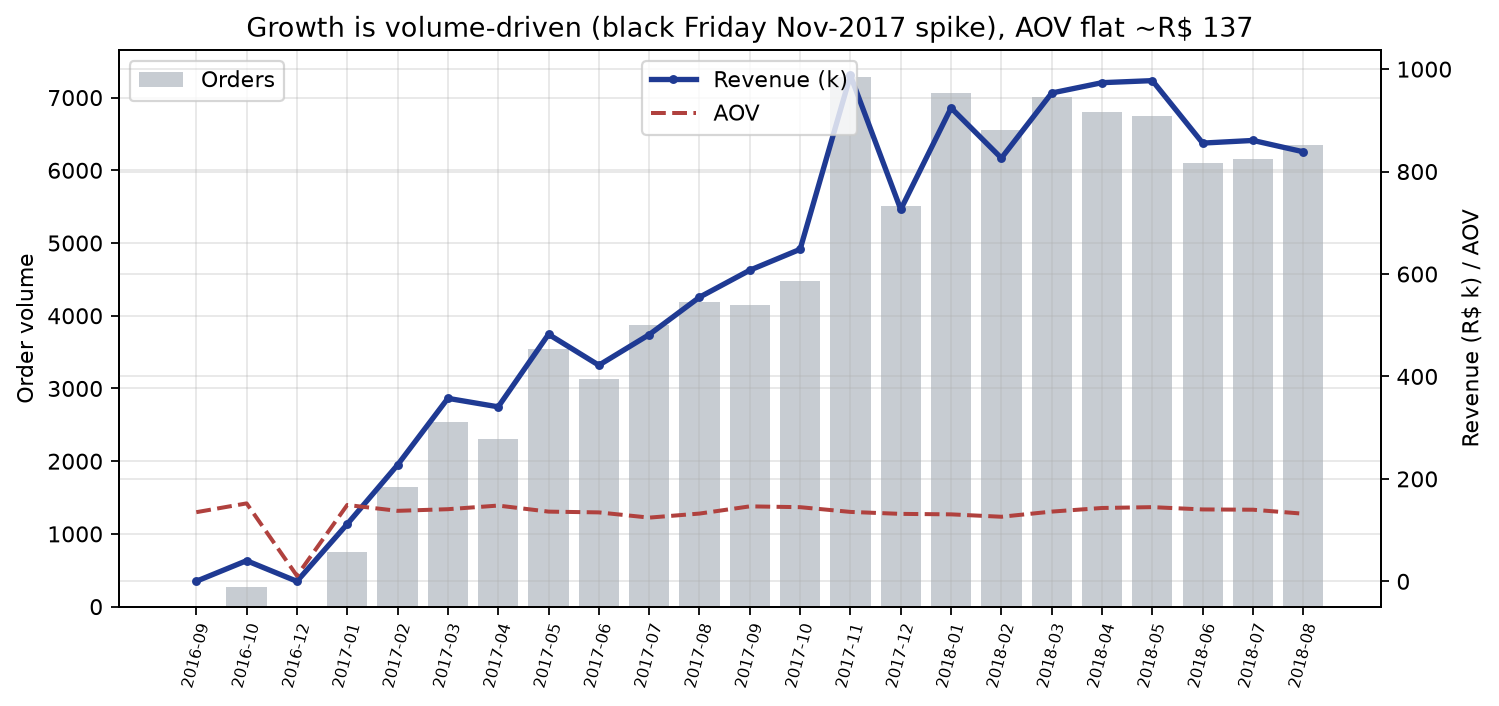
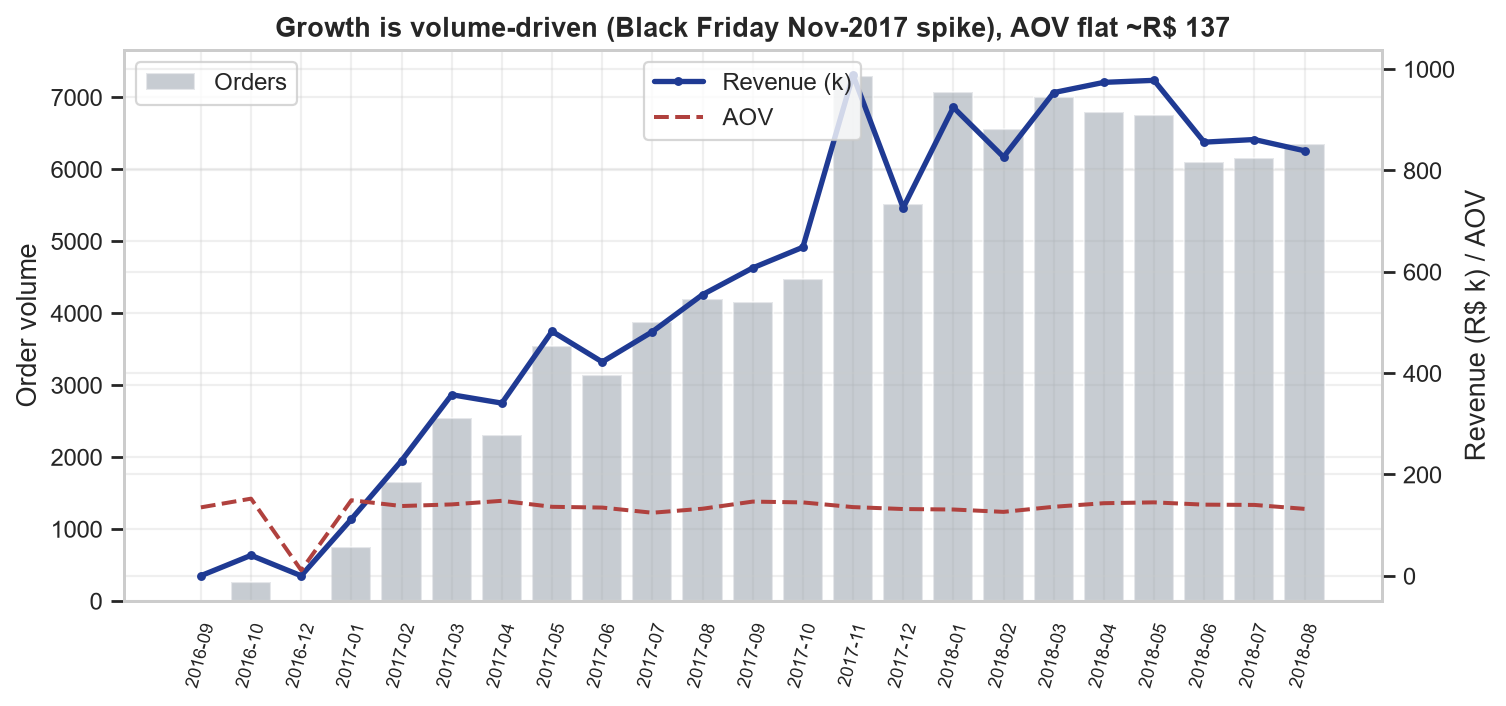
feat: KPI + growth/seasonality sections, save viz_04

diff --git a/04_Python/build_full_analysis_nb.py b/04_Python/build_full_analysis_nb.py
@@ -296,6 +296,90 @@ for key in CORE:
 """))
 
 # --------------------------------------------------------------------------- #
+# SECTION 4 - CORE MONEY & SCALE KPIs
+# --------------------------------------------------------------------------- #
+cells.append(md(r"""
+## 4. Core money & scale KPIs
+
+Headline numbers on the delivered-orders universe: revenue (goods), freight,
+delivered orders, AOV, unique customers and the critical repeat rate.
+"""))
+
+cells.append(code(r"""
+rev = m["order_revenue"].sum()
+freight = m["total_freight"].sum()
+aov = rev / len(m)
+cust_count = m.groupby("customer_unique_id").size()
+repeat_rate = (cust_count > 1).mean()
+
+kpi = pd.DataFrame({
+    "Metric": ["Gross revenue (goods)", "Total freight", "Delivered orders",
+               "Average order value (AOV)", "Unique customers", "Repeat rate"],
+    "Value": [f"R$ {rev:,.0f}", f"R$ {freight:,.0f}  ({freight/rev:.1%} of revenue)",
+              f"{len(m):,}", f"R$ {aov:,.2f}", f"{len(cust_count):,}", f"{repeat_rate:.2%}"]})
+display(kpi)
+print(f"Customers with >=3 orders: {(cust_count >= 3).sum():,} ({(cust_count >= 3).mean():.2%})")
+print(f"Avg orders per customer: {cust_count.mean():.3f}")
+"""))
+
+# --------------------------------------------------------------------------- #
+# SECTION 5 - GROWTH & SEASONALITY
+# --------------------------------------------------------------------------- #
+cells.append(md(r"""
+## 5. Growth & seasonality
+
+Monthly revenue / volume / AOV, month-over-month momentum, the Black Friday
+Nov-2017 spike, and weekday vs weekend behaviour. **Saves `viz_04`**.
+"""))
+
+cells.append(code(r"""
+m["order_date"] = m["order_purchase_timestamp"].dt.to_period("M")
+g = m.groupby("order_date").agg(orders=("order_id", "size"),
+                                revenue=("order_revenue", "sum"))
+g["aov"] = g["revenue"] / g["orders"]
+g["mom"] = g["orders"].pct_change() * 100
+g["revenue_mom"] = g["revenue"].pct_change() * 100
+print("MONTHLY SERIES (orders, revenue, AOV)")
+print(g[["orders", "revenue", "aov"]].to_string())
+print(f"\nMedian monthly volume growth: {g['mom'].median():.1f}%")
+print(f"Median monthly revenue growth: {g['revenue_mom'].median():.1f}%")
+print(f"Peak order month: {g['orders'].idxmax()} ({g['orders'].max():,} orders)")
+print(f"Peak revenue month: {g['revenue'].idxmax()} (R$ {g['revenue'].max():,.0f})")
+"""))
+
+cells.append(code(r"""
+xx = range(len(g))
+fig, ax = plt.subplots(figsize=(9.5, 4.5))
+ax.bar(xx, g["orders"], color=GRAY, alpha=0.55, label="Orders")
+ax2 = ax.twinx()
+ax2.plot(xx, g["revenue"] / 1e3, color=NAVY, lw=2.4, marker="o", ms=3, label="Revenue (k)")
+ax2.plot(xx, g["aov"], color=RED, lw=1.8, ls="--", label="AOV")
+ax.set_xticks(xx, [str(x) for x in g.index], rotation=75, fontsize=8)
+ax.set_ylabel("Order volume"); ax2.set_ylabel("Revenue (R$ k) / AOV")
+ax.legend(loc="upper left"); ax2.legend(loc="upper center")
+ax.set_title("Growth is volume-driven (Black Friday Nov-2017 spike), AOV flat ~R$ 137")
+savefig("viz_04_monthly_revenue_volume.png")
+"""))
+
+cells.append(code(r"""
+bf = m[m["order_purchase_timestamp"].dt.to_period("M") == pd.Period("2017-11", freq="M")]
+avg_orders = g["orders"].mean()
+print(f"Black Friday Nov-2017: {len(bf):,} orders, R$ {bf['order_revenue'].sum():,.0f} "
+      f"({len(bf)/avg_orders - 1:+.0%} vs monthly avg {avg_orders:,.0f})")
+
+wk = m.groupby(m["order_purchase_timestamp"].dt.dayofweek.ge(5)).agg(
+    orders=("order_id", "size"), aov=("order_revenue", "mean"))
+wk.index = ["weekday", "weekend"]
+print("\nWeekday vs weekend:")
+print(wk.to_string())
+
+dow = m["order_purchase_timestamp"].dt.dayofweek.value_counts().sort_index()
+dow.index = ["Mon", "Tue", "Wed", "Thu", "Fri", "Sat", "Sun"]
+print("\nDay-of-week order mix:")
+print(dow.to_string())
+"""))
+
+# --------------------------------------------------------------------------- #
 # ASSEMBLY - later sections append above this line
 # --------------------------------------------------------------------------- #
 def build():
